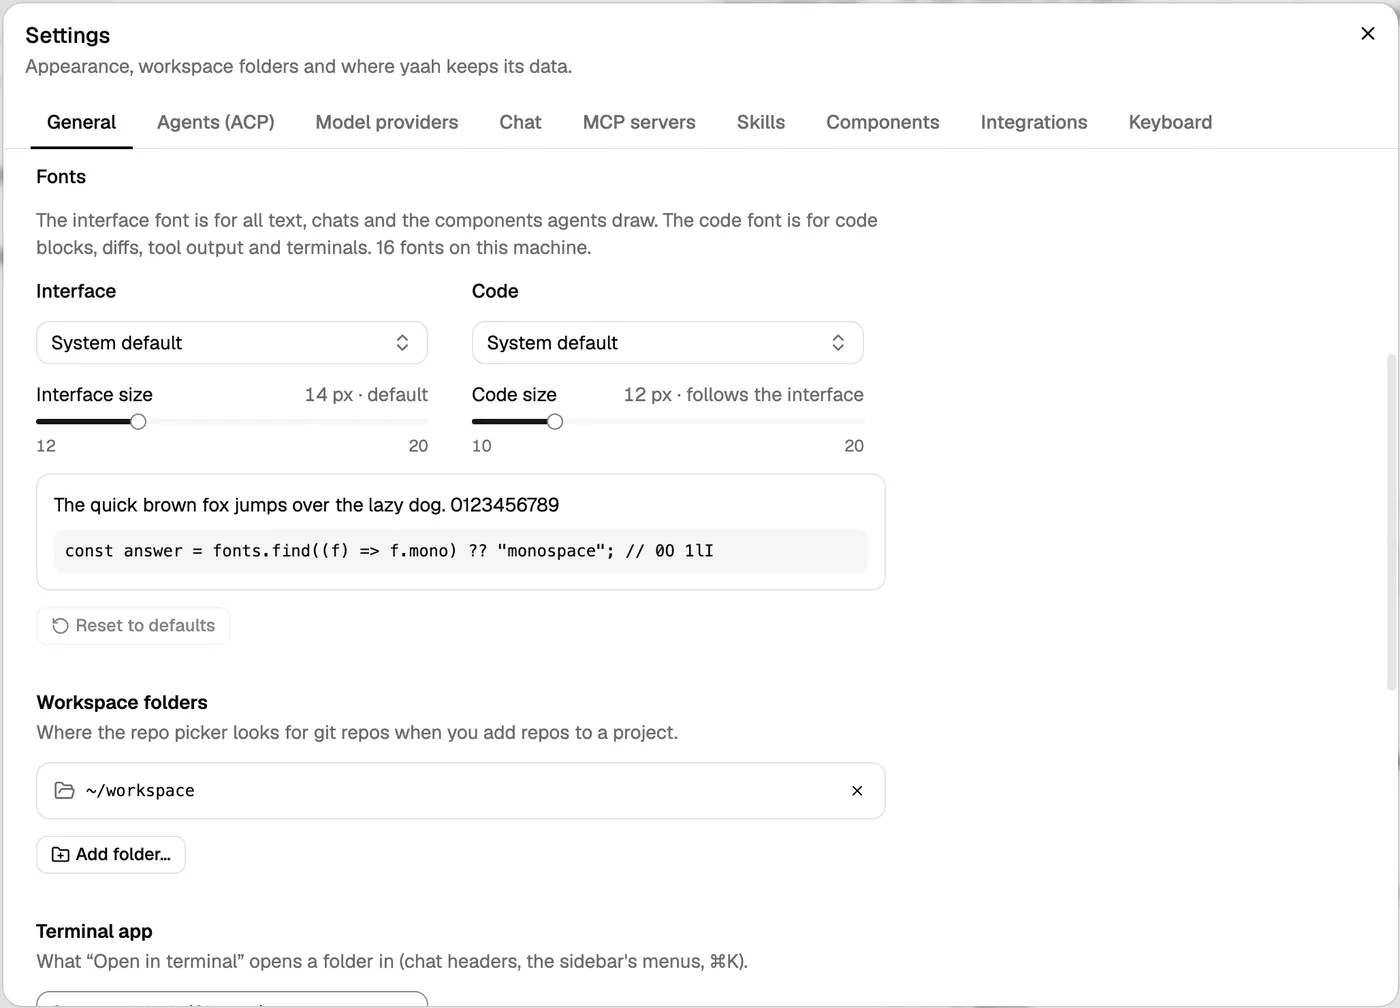
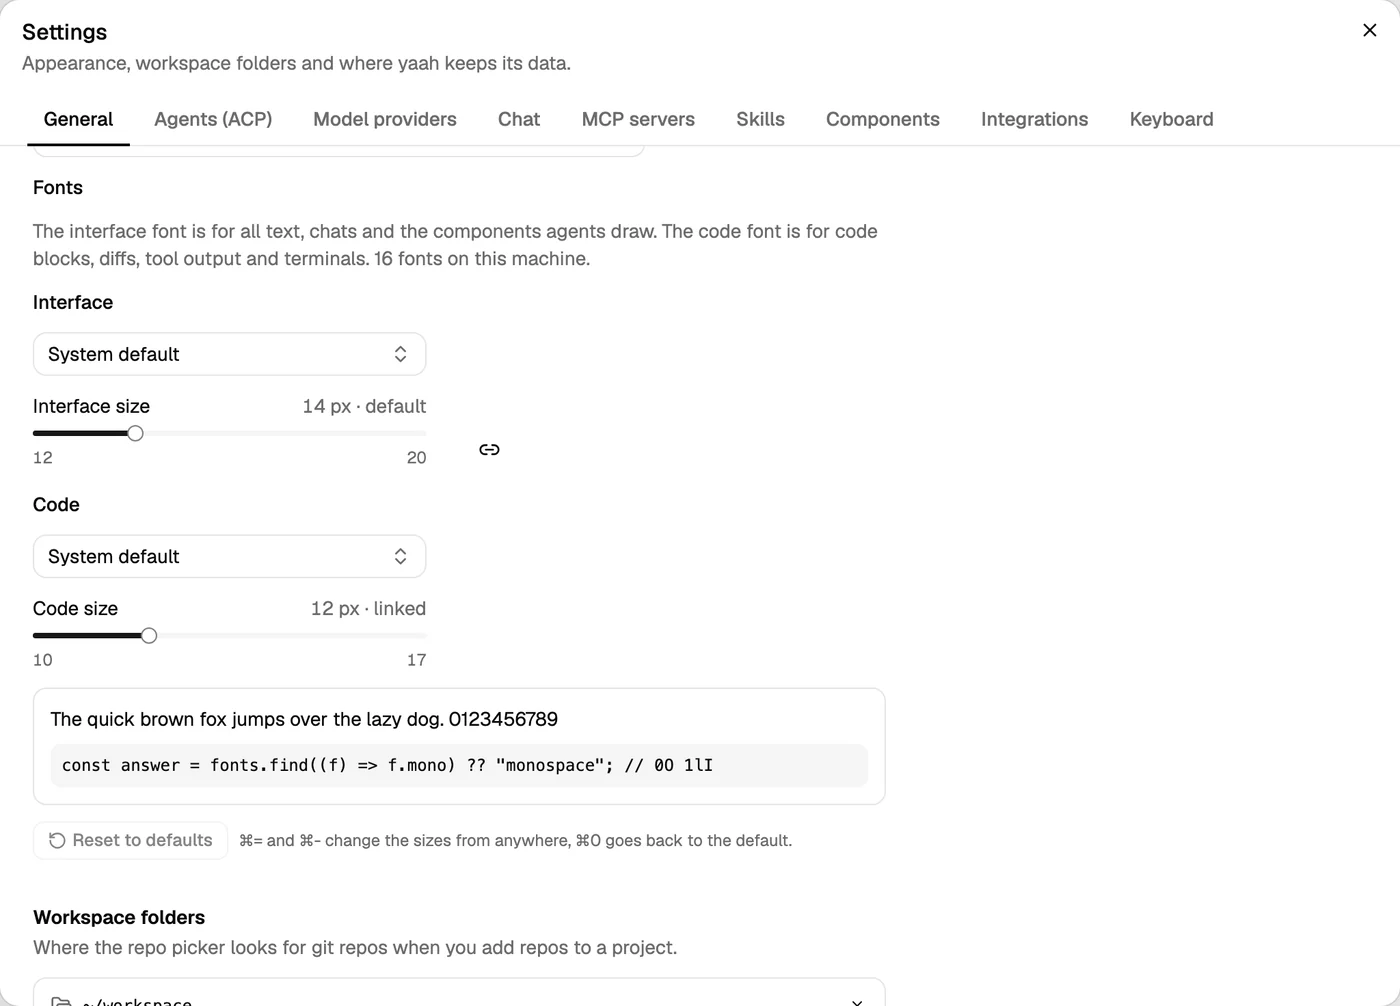
Website and README for 0.5.0 and 0.5.1
New sections for the message box and for charts, maps and flow graphs
on d3; panes, permissions, chat, fonts and keyboard brought up to date;
shortcut tables match the app; Not there yet lists the browser pane.
Seven new screenshot pairs and seven replaced, light and dark, with the
capture notes in docs/experiments/2026-11-04-website-refresh/.

diff --git a/README.md b/README.md
@@ -20,8 +20,8 @@
 
 <p align="center">
   <picture>
-    <source media="(prefers-color-scheme: dark)" srcset="site/public/shots/scenarios-map-dark.webp">
-    <img src="site/public/shots/scenarios-map-light.webp" alt="An agent answering with a live map, tabs and a table inside a yaah chat" width="900">
+    <source media="(prefers-color-scheme: dark)" srcset="site/public/shots/map-connection-dark.webp">
+    <img src="site/public/shots/map-connection-light.webp" alt="An agent answering with a map of daily flights between 12 hubs, drawn as arcs as wide as the traffic, inside a yaah chat" width="900">
   </picture>
 </p>
 
@@ -40,7 +40,7 @@ Prefer to click? Grab the `.dmg`, `.AppImage` or `.deb` from [Releases](https://
 Coding agents are great at work and terrible at showing it. They paste diffs into chat, dump JSON, describe dashboards
 in prose, and ask you questions one line at a time. yaah gives them a better way to answer.
 
-- **Real UI, built from data:** agents render forms, tables, charts (dumbbells included), maps, MDX, live PRs, database queries,
+- **Real UI, built from data:** agents render forms, tables, charts, maps, flow graphs, MDX, live PRs, database queries,
   git graphs and diffs straight into the chat. Components are data, not code, so nothing an agent writes ever runs in the app.
 - **Work on it together:** forms are shared. The agent fills in what it knows, you correct the rest, and it sees your edits.
 - **Live, not pasted:** point a component at your machine, Docker, Postgres (read-only), GitHub, GitLab or Linear, and it
@@ -93,24 +93,31 @@ in prose, and ask you questions one line at a time. yaah gives them a better way
   - data: Postgres explorer, SQL editor;
   - machines: Docker dashboards, container logs, system monitor;
   - trackers: GitHub, GitLab and Linear issues, boards and cycles.
+- **Charts, maps and flow graphs on d3:** bars, lines, areas and dumbbells; choropleth, bubble, connection, hexbin and outline
+  maps of the world, Europe or US states, plus street maps with routes and clusters; sankey and network graphs.
+- **The message box:** drop, paste or attach images and files; pick the model and effort the agent offers; type `#`,
+  `github#`, `gitlab#` or `linear#` to attach an issue or PR, and the agent is told which live viewer shows it; lists continue on
+  Shift+Enter and ⌘B / ⌘I / ⌘E format a selection. Send while the agent is busy and the message waits in a queue.
 - **Your own component library:** agents save the UI they build and improve it over versions. Copy any component, install
   libraries from git, or share yours as a library for your team.
 - **Projects that start from your tracker:** pick a GitHub, GitLab or Linear issue (or paste its link) and yaah creates
   the project, writes the issue into its brief, adds your local clone and drafts the first message.
-- **Split panes and terminals:** ⌘D / ⌘⇧D split the window like a terminal, ⌃⌘= balances the panes, and every pane has a
-  close button. A pane holds a chat, a project or your login shell (⌘T); ⌘⇧Enter expands a terminal into a large dialog. The
-  sidebar folds away with ⌘B.
+- **Split panes, terminals and diffs:** ⌘D / ⌘⇧D split the window like a terminal, ⌃⌘= balances the panes, and ⌘W on the
+  last pane goes home. A pane holds a chat, a project, your login shell (⌘T) or a read-only diff of a repo (all changes, staged,
+  unstaged, or against a branch). Open terminals and diffs are listed in the sidebar, under their project when opened from one.
 - **Open in terminal, and agents' commands live:** open any folder in Ghostty, iTerm or Terminal. When an agent runs its commands
   through ACP's terminal capability, the tool card shows them live. (Claude Code's and Codex's current adapters run their own
   commands and don't use it yet.)
 - **Resume a session…** Import a session you started in the Claude Code or Codex CLI and carry on in yaah.
 - **A calmer chat:** full-width, your message on the right and the agent's reply in a soft bubble. Runs of tool calls fold into
-  one row, and any rendered UI has an Expand button that fills a dialog.
-- **Fewer permission prompts:** reads inside the chat's folders are allowed without asking, MCP servers can be trusted per
-  project, "don't ask again" is remembered, and answered requests fold into chips on the tool cards. Edits, commands and
-  fetches still ask.
+  one row, screenshots agents take show inline, a chat opens at its latest message, and any rendered UI has an Expand button that
+  fills a dialog.
+- **Fewer permission prompts:** reads inside the chat's folders are allowed without asking, an MCP server can be trusted in one
+  chat, a project, all quick chats or every chat, "don't ask again" is remembered, and answered requests fold into chips on the
+  tool cards. Web searches can be allowed in Settings. Edits, commands and fetches still ask.
 - **Switch agents mid-chat:** hand the conversation to another agent for the next message.
-- **Keyboard-first:** ⌘K for everything, with your shortcuts listed in Settings.
+- **Keyboard-first:** ⌘K lists chats, then projects, then commands (`@` or `#` narrows it), and your shortcuts are listed in
+  Settings. Chat and project rows have Rename and Delete buttons.
 - **Any VS Code theme:** 65 built in, or drop your own in. Text keeps at least 4.5:1 contrast in every theme, chart colours follow the
   theme, and the home screen scores 100 in Lighthouse accessibility.
 - **Your fonts:** pick an interface font and a code font and their sizes; they apply everywhere, terminals included.
@@ -119,8 +126,15 @@ in prose, and ask you questions one line at a time. yaah gives them a better way
 
 <p align="center">
   <picture>
+    <source media="(prefers-color-scheme: dark)" srcset="site/public/shots/composer-references-dark.webp">
+    <img src="site/public/shots/composer-references-light.webp" alt="The message box with two images and a file attached, and the # list of matching GitHub and Linear items above it" width="900">
+  </picture>
+</p>
+
+<p align="center">
+  <picture>
     <source media="(prefers-color-scheme: dark)" srcset="site/public/shots/split-panes-dark.webp">
-    <img src="site/public/shots/split-panes-light.webp" alt="Three panes side by side: a chat with folded tool calls, a terminal and a project" width="900">
+    <img src="site/public/shots/split-panes-light.webp" alt="Three panes side by side: a project chat with folded tool calls, a terminal and the project page" width="900">
   </picture>
 </p>
 
@@ -135,7 +149,7 @@ in prose, and ask you questions one line at a time. yaah gives them a better way
 
 - **Agent UI is data:** components render with yaah's own building blocks, and web pages load only when you click.
 - **Read-only by default:** Postgres runs as a read-only role (yaah refuses superusers), and every tracker integration only reads.
-- **The agent asks before its tools run** (edits, commands, fetches), unless you said "don't ask again" or the call is a read inside the chat's folders or comes from an MCP server you trusted. Only yaah's own UI tools skip the prompt.
+- **The agent asks before its tools run** (edits, commands, fetches), unless you said "don't ask again", the call is a read inside the chat's folders, or it comes from an MCP server you trusted. Only yaah's own UI tools skip the prompt.
 - **MDX never runs:** yaah parses its syntax only and never evaluates imports, expressions or scripts.
 - **Secrets stay put:** tokens are in your keychain or a 0600 file. They go only to the process that needs them, and never into an agent's command line.
 - **Agent adapters are verified before they're used:** yaah installs each adapter once and checks newer versions daily. A

diff --git a/docs/experiments/2026-11-04-website-refresh/README.md b/docs/experiments/2026-11-04-website-refresh/README.md
@@ -1,0 +1,46 @@
+# Website refresh for 0.5.0 and 0.5.1 (2026-11-04)
+
+New and replaced screenshots for `site/` and the root `README.md`, and the checks of the built site. Follows
+`2026-11-03-website/`, which has the first set.
+
+**App screenshots** (`raw/`): vitro against the browser mock (`pnpm exec vite --port 1489 --strictPort` in `app/`), at
+1440×900 and device scale factor 2. Light and dark are the app's yaah light and yaah dark, switched by emulating the system
+colour scheme (the mock's appearance is System); each pair is the same state captured twice, with a 2 s pause after the
+switch so the theme transition has settled. The site uses crops of these, resized with ImageMagick (Lanczos) and encoded
+with `cwebp -q 86 -m 6` into `site/public/shots/<name>-light.webp` and `-dark.webp`, at the widths the earlier shots use
+(1600 for full windows, 1200 for chat crops, 1400 for Settings, 900 for the palette, 800 for the pane picker).
+
+| Name | What it shows | How it was set up | Where |
+|---|---|---|---|
+| `map-connection` (new) | `connection` map: flights between 12 hubs as great circles | quick chat, "Show me the map types" | Charts, maps and flow graphs; README hero |
+| `flow-network` (new) | `flow` network: 15 services in 3 tiers | quick chat, "Show me the flow graphs" | Charts, maps and flow graphs |
+| `composer-references` (new) | Message box: two images and a file dropped (`__yaahMock.dropFiles`), `#webhook` list, GitLab's revoked-token line, Model and Effort | new chat in "billing revamp" | The message box; README |
+| `composer` (new) | Message box with the attachments, the `acme/api#212` reference chip, the token in the text, the toolbar | same chat, `#212` then Tab | The message box |
+| `diff-pane` (new) | Diff pane beside the project chat, listed under the project in the sidebar | ⌘K "Diff of this folder" from "triage ENG-142", divider moved to 38% | Split panes, terminals and diffs |
+| `chat-images` (new) | Two browser screenshots under a folded group of four tool calls | quick chat, a prompt with "screenshot" (`screenshotChat`) | A calmer chat |
+| `permission` (replaced) | Permission card in a project chat: In this chat, In this project, In all chats | "triage ENG-142" in "billing revamp" | Permissions |
+| `palette` (replaced) | ⌘K with nothing typed: chats, projects, commands; the `@` / `#` placeholder | ⌘K | Keyboard first |
+| `pack-system-monitor` (replaced) | Hero: system-monitor with the new message box | quick chat, the pack prompt, permissions answered Yes | Hero; README |
+| `split-panes` (replaced) | Project chat, terminal (listed under the project) and the project page | "triage ENG-142" (Linear trusted in the project, `rm -rf build` denied), ⌘T, ⌘⇧D, the project | Split panes; README |
+| `settings-fonts` (replaced) | Fonts with linked sizes and the ⌘= / ⌘- note | ⌘, → General | Fonts and sizes |
+| `pane-picker` (replaced) | A new pane's picker, now with Open diff… | quick chat, ⌘D | Resume a session |
+
+Notes:
+
+- The mock's terminal only runs `echo` and `exit`, and extra Enter presses left blank prompts in `split-panes`.
+- The hero's chart starts with a gap of about 1.5 minutes (the first sample was taken before the permissions were answered).
+- In `split-panes-dark` the project name field shows its hover fill; the pointer was over it.
+- Opening Settings once froze the page for a while (Chrome stopped answering evaluate); a reload and ⌘, worked.
+  Not investigated.
+
+**Site checks** (`verify/`): `pnpm build`, served with `pnpm astro preview --port 4391`, every image forced to load
+and decoded. No broken images, no element wider than the viewport outside scrollable code and tables, and the dark theme
+swaps every screenshot to its `-dark` file (30 visible, 0 light). Lighthouse (vitro's `run_audit`, its default mobile
+emulation, cold cache): accessibility 100, best practices 100, SEO 100, performance 100.
+
+| File | Width | Theme |
+|---|---|---|
+| `verify/site-1440-light-full.jpg` | 1440 | light |
+| `verify/site-1440-dark-full.jpg` | 1440 | dark |
+| `verify/site-0400-light-full.jpg` | 400 | light |
+| `verify/site-0400-dark-full.jpg` | 400 | dark |

diff --git a/site/README.md b/site/README.md
@@ -61,7 +61,8 @@ public/sitemap.xml           the one page, by hand (no sitemap integration for o
 
 Every image in `public/shots/` is the app, captured from its browser mock (`pnpm dev` in `app/`,
 http://localhost:1420) replaying recorded agent sessions, at 2× in light and dark. The originals and
-how they were taken are in `docs/experiments/2026-11-03-website/`. To refresh one, capture it again
+how they were taken are in `docs/experiments/2026-11-03-website/`, and for the shots added or replaced for 0.5.0 and 0.5.1,
+`docs/experiments/2026-11-04-website-refresh/`. To refresh one, capture it again
 there and convert it to WebP into `public/shots/` with the same name (`<name>-light.webp`,
 `<name>-dark.webp`).
 
